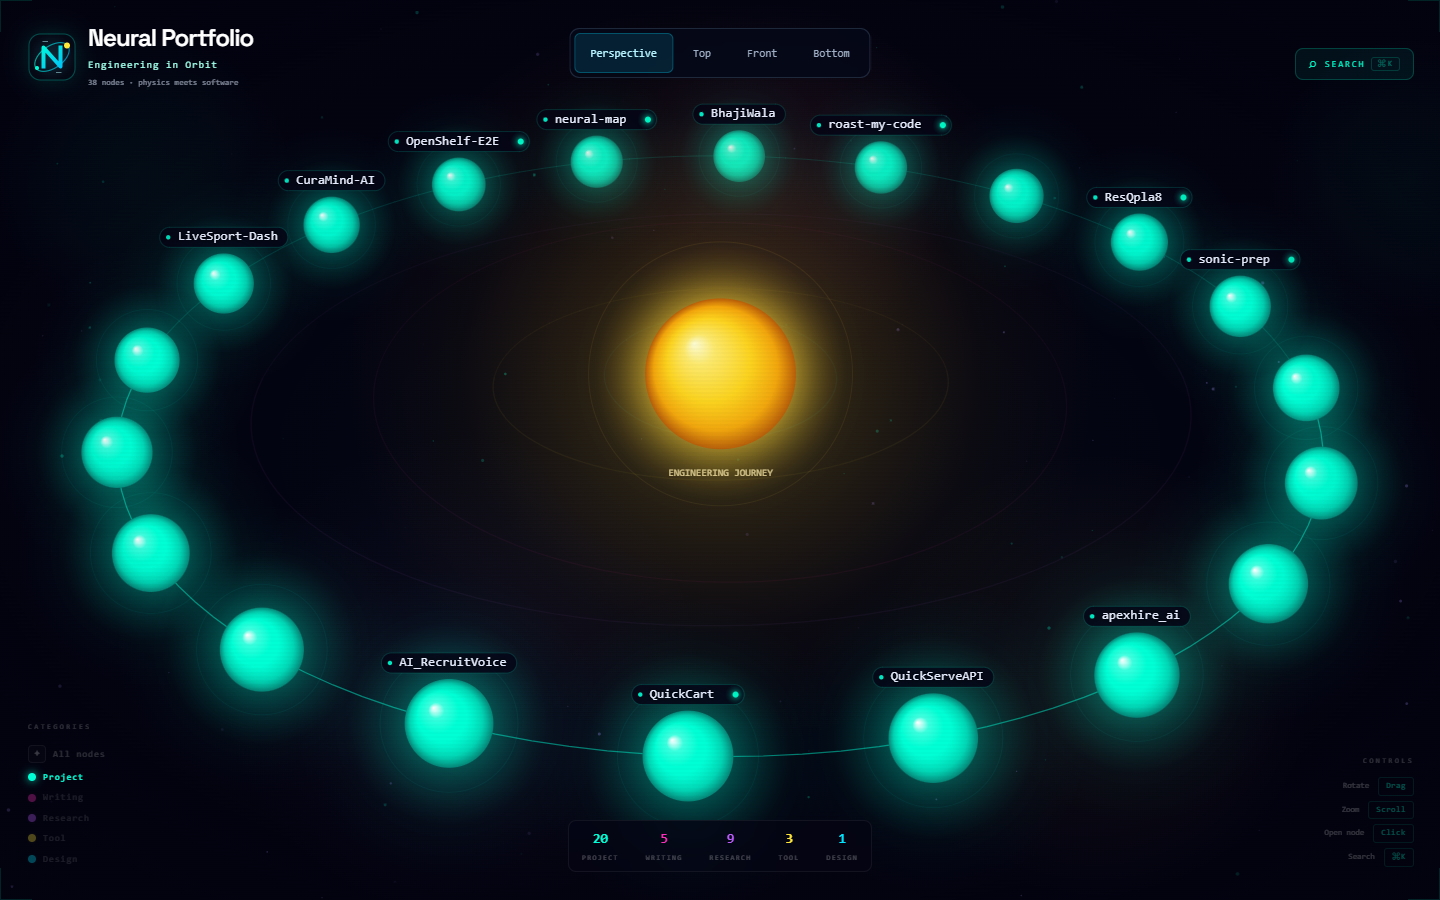
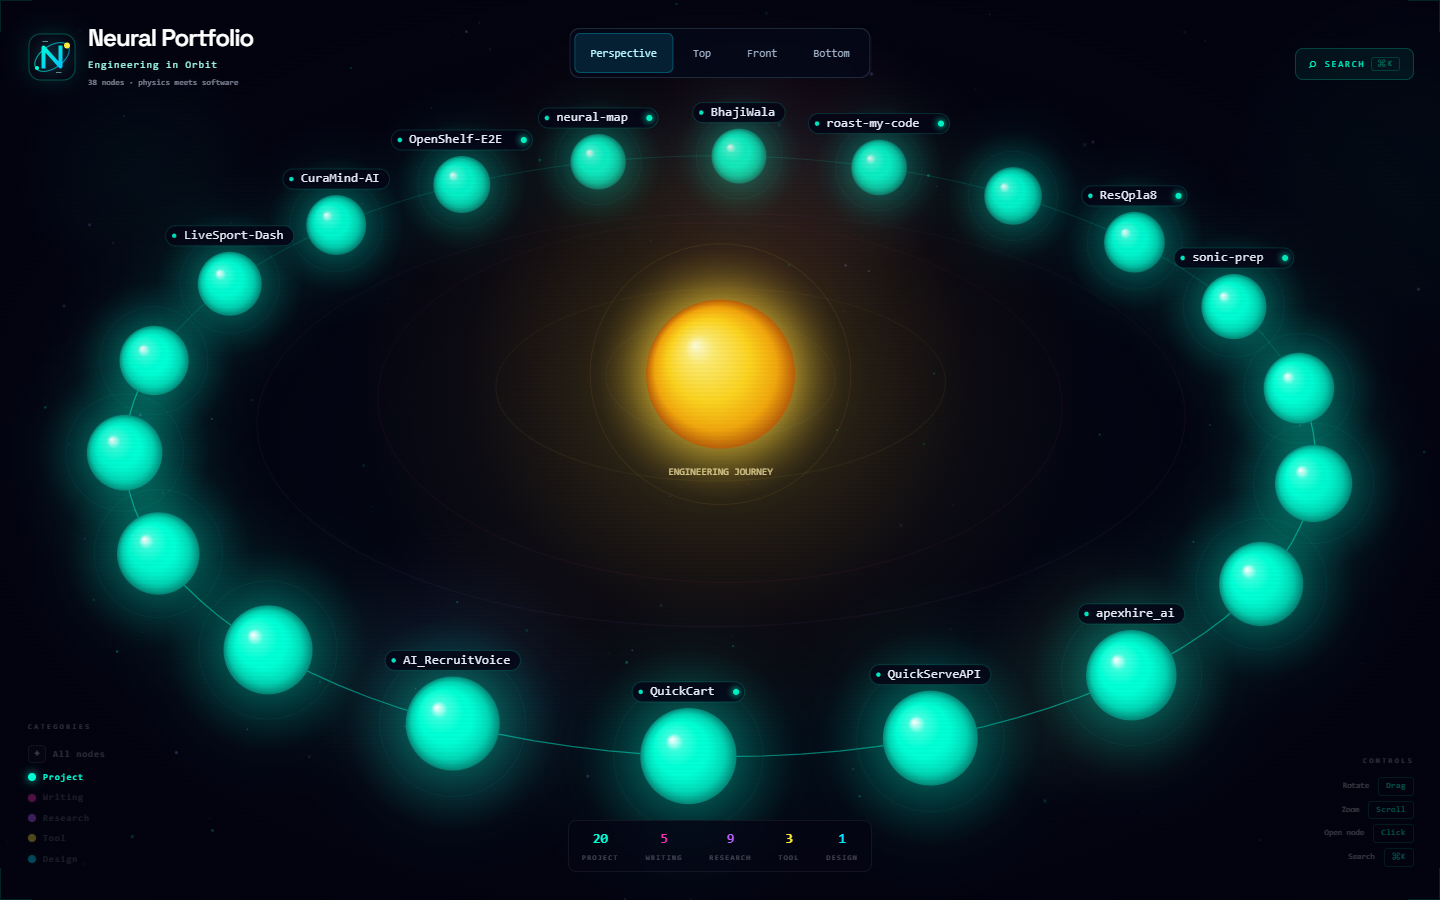
fix: fill opening orbital view across desktop and landscape screens
Fit the perspective angle to the available viewport, scale desktop planets with their orbital system, and refit the active preset on resize. Preserve portrait mobile sizing and refresh the README screenshots. Validated the build, seven viewport sizes, all camera presets, and search and gesture regressions.

diff --git a/frontend/components/Scene.tsx b/frontend/components/Scene.tsx
@@ -3,7 +3,7 @@
 import {
   useRef, useState, useEffect, useCallback,
 } from "react";
-import Graph, { GraphHandle, SimNode, CATEGORIES, getCat } from "./Graph";
+import Graph, { GraphHandle, SimNode, CATEGORIES, getCat, getPerspectivePitch } from "./Graph";
 
 // Types
 export type NodeData = {
@@ -909,7 +909,8 @@ function StatsStrip({ nodes }: { nodes: SimNode[] }) {
 
 // Scene
 export default function Scene() {
-  const initialPitch = typeof window !== "undefined" && (window.innerWidth <= 768 || window.innerHeight < 500) ? 0.68 : 0.48;
+  const initialPitch = typeof window !== "undefined"
+    ? getPerspectivePitch(window.innerWidth, window.innerHeight) : 0.48;
   const canvasRef  = useRef<HTMLCanvasElement>(null);
   const [canvasEl, setCanvasEl] = useState<HTMLCanvasElement | null>(null);
   const graphRef   = useRef<GraphHandle>(null);
@@ -925,8 +926,8 @@ export default function Scene() {
 
   const [cameraView, setCameraView] = useState<CameraView | null>("Perspective");
   const changeView = useCallback((view: CameraView) => {
-    camera.targetRotX = view === "Perspective" && (window.innerWidth <= 768 || window.innerHeight < 500)
-      ? 0.68 : CAMERA_VIEWS[view].pitch;
+    camera.targetRotX = view === "Perspective"
+      ? getPerspectivePitch(window.innerWidth, window.innerHeight) : CAMERA_VIEWS[view].pitch;
     camera.targetRotY = CAMERA_VIEWS[view].yaw;
     camera.targetZoom = 1;
     mousePos.current = { x: -9999, y: -9999 };
@@ -952,6 +953,9 @@ export default function Scene() {
     if (!canvas) return;
     const ctx = canvas.getContext("2d");
     const resize = () => {
+      if (cameraView === "Perspective") {
+        camera.targetRotX = getPerspectivePitch(window.innerWidth, window.innerHeight);
+      }
       const dpr = window.devicePixelRatio || 1;
       canvas.width  = window.innerWidth  * dpr;
       canvas.height = window.innerHeight * dpr;
@@ -962,7 +966,7 @@ export default function Scene() {
     resize();
     window.addEventListener("resize", resize);
     return () => window.removeEventListener("resize", resize);
-  }, []);
+  }, [camera, cameraView]);
 
   // Keyboard shortcuts
   useEffect(() => {

diff --git a/frontend/components/Graph.tsx b/frontend/components/Graph.tsx
@@ -129,6 +129,16 @@ const ORBITS = [
 
 export interface Camera { rotX: number; rotY: number; zoom: number }
 
+export function getPerspectivePitch(width: number, height: number): number {
+  if (height < 500 && width > height) {
+    return Math.asin(Math.max(0.10, Math.min(0.35, (height - 294) / (width - 48))));
+  }
+  if (width <= 768) return 0.68;
+  // Flatter orbital planes fill wide displays without cropping the planets.
+  const aspect = (height - 300) / (width - Math.max(144, width * 0.11));
+  return Math.asin(Math.max(0.14, Math.min(0.65, aspect)));
+}
+
 function orbitalPoint(orbit: typeof ORBITS[number], angle: number) {
   return {
     x: Math.cos(angle) * orbit.radius,
@@ -169,7 +179,9 @@ function orbitalLayout(W: number, H: number, camera: Camera) {
       minY = Math.min(minY, p.y); maxY = Math.max(maxY, p.y);
     }
   }
-  const fitScale = Math.max(24, Math.min((W - (compact ? 48 : 144)) / (maxX - minX), (height - (compact ? 52 : 112)) / (maxY - minY)));
+  const horizontalPadding = compact ? 48 : Math.max(144, W * 0.11);
+  const verticalPadding = compact ? 52 : Math.max(112, H * 0.12);
+  const fitScale = Math.max(24, Math.min((W - horizontalPadding) / (maxX - minX), (height - verticalPadding) / (maxY - minY)));
   const scale = fitScale * camera.zoom;
   return {
     cx: W / 2 - (maxX + minX) * scale / 2,
@@ -177,7 +189,7 @@ function orbitalLayout(W: number, H: number, camera: Camera) {
     scale, roll, compact,
     nodeScale: (compact
       ? Math.max(0.55, Math.min(1.18, fitScale / 420))
-      : Math.max(1.25, Math.min(2.0, fitScale / 270))) * camera.zoom,
+      : Math.max(1.25, fitScale / 270)) * camera.zoom,
   };
 }
 
